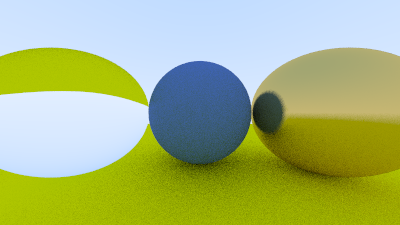
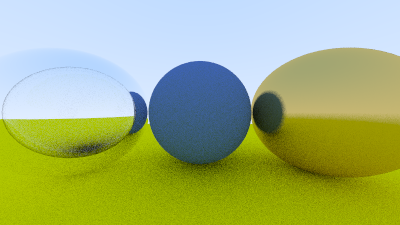
TIF and reflectance

diff --git a/src/material.rs b/src/material.rs
@@ -78,7 +78,15 @@ pub struct Dielectric {
 
 impl Dielectric {
     pub fn new(refraction_index: f64) -> Self {
-        Self { refraction_index} 
+        Self { refraction_index, } 
+    }
+
+    //Calculate reflectance using Schlick's approximation
+    fn reflectance(cosine: f64, refraction_index: f64) -> f64 {
+        let r0 = (1.0 - refraction_index) / (1.0 + refraction_index);
+        let r0 = r0 * r0;
+
+        r0 + (1.0 - r0) * (1.0 - cosine).powf(5.0) 
     }
 }
 
@@ -93,8 +101,20 @@ impl Material for Dielectric {
             self.refraction_index
         };
         let unit_direction = Vec3::unit_vector(r_in.direction());
-        let refracted = Vec3::refract(&unit_direction, &hit_record.normal, ri);
+        //Check for total internal reflection
+        let cos_theta = (-Vec3::dot(&unit_direction, &hit_record.normal)).min(1.0);
+        let sin_theta = (1.0 - cos_theta * cos_theta).sqrt();
+        let cannot_refract = ri * sin_theta > 1.0; 
 
-        Some((Color::new(1.0, 1.0, 1.0), Ray::new(hit_record.p, refracted)))
+        //Randomly reflect rays 
+        let randomly_reflected = Dielectric::reflectance(cos_theta, ri) > rand::random::<f64>();
+
+        let direction = if cannot_refract || randomly_reflected {
+            Vec3::reflect(&unit_direction, &hit_record.normal)
+        } else {
+            Vec3::refract(&unit_direction, &hit_record.normal, ri)
+        };
+
+        Some((Color::new(1.0, 1.0, 1.0), Ray::new(hit_record.p, direction)))
     }
 } 

diff --git a/src/main.rs b/src/main.rs
@@ -29,7 +29,7 @@ fn main() {
   // would incorrectly infer a type of Rc<Lambertian>, Rc<Metal>, etc. 
   let material_ground: Rc<dyn Material>  = Rc::new(Lambertian{albedo: Color::new(0.8, 0.8, 0.0)});
   let material_center: Rc<dyn Material> = Rc::new(Lambertian{albedo: Color::new(0.1, 0.2, 0.5)});
-  let material_left: Rc<dyn Material> = Rc::new(Dielectric{refraction_index: 1.5});
+  let material_left: Rc<dyn Material> = Rc::new(Dielectric{refraction_index: 1.0 / 1.33});
   let material_right: Rc<dyn Material> = Rc::new(Metal{albedo: Color::new(0.8, 0.6, 0.2), fuzz: 0.1});
 
   //Create the World: we must place hittable objects into the scene  
